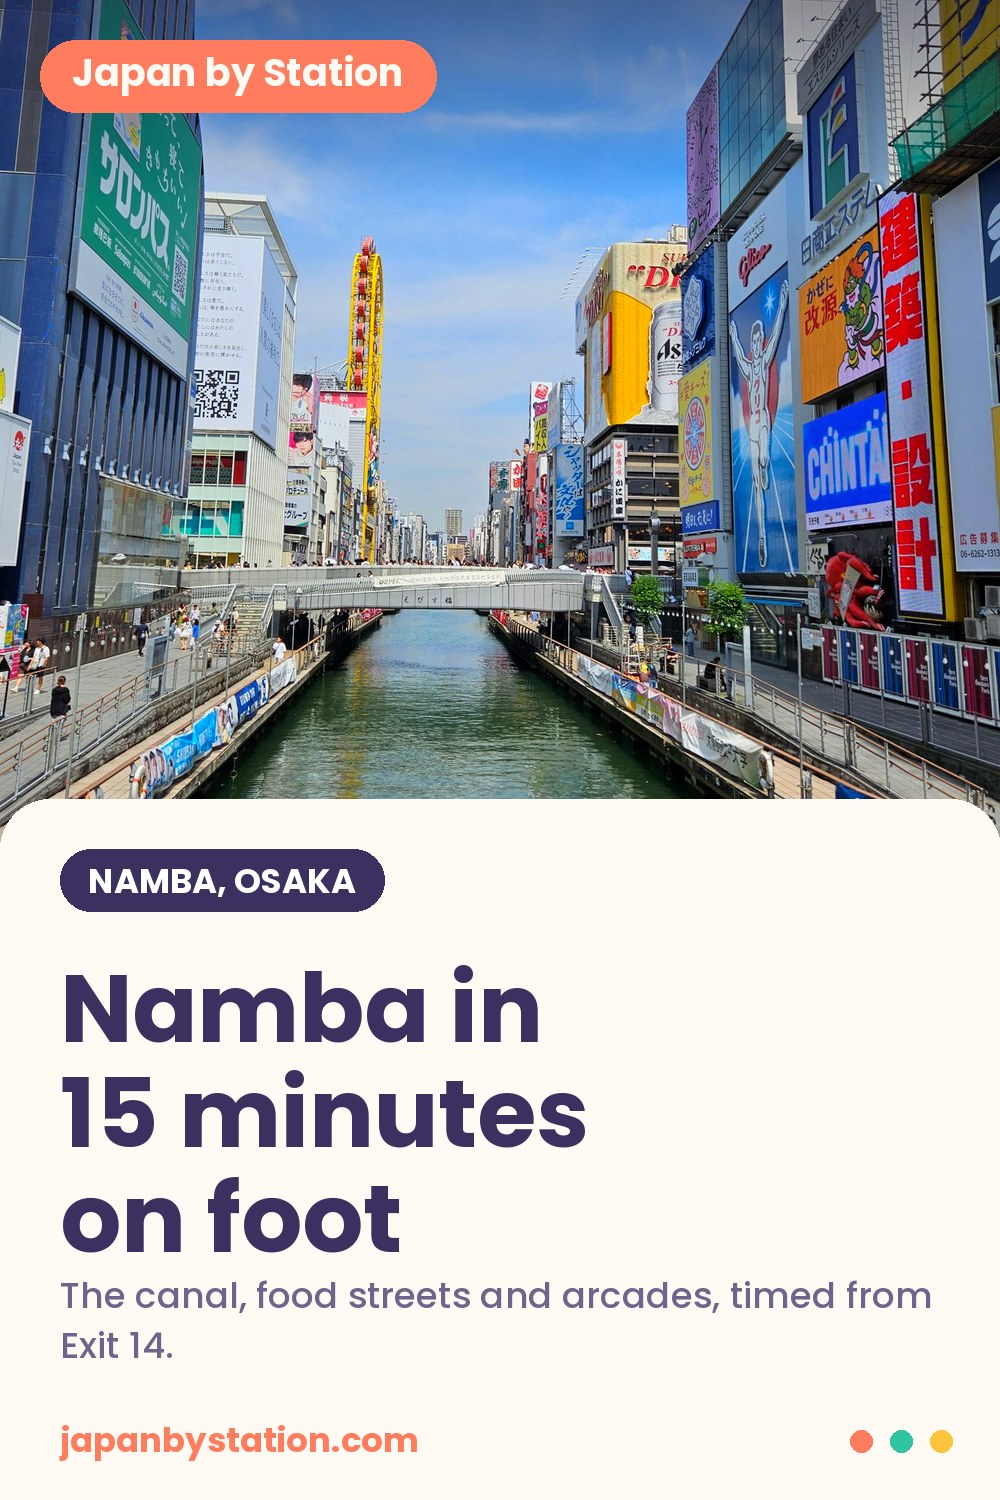
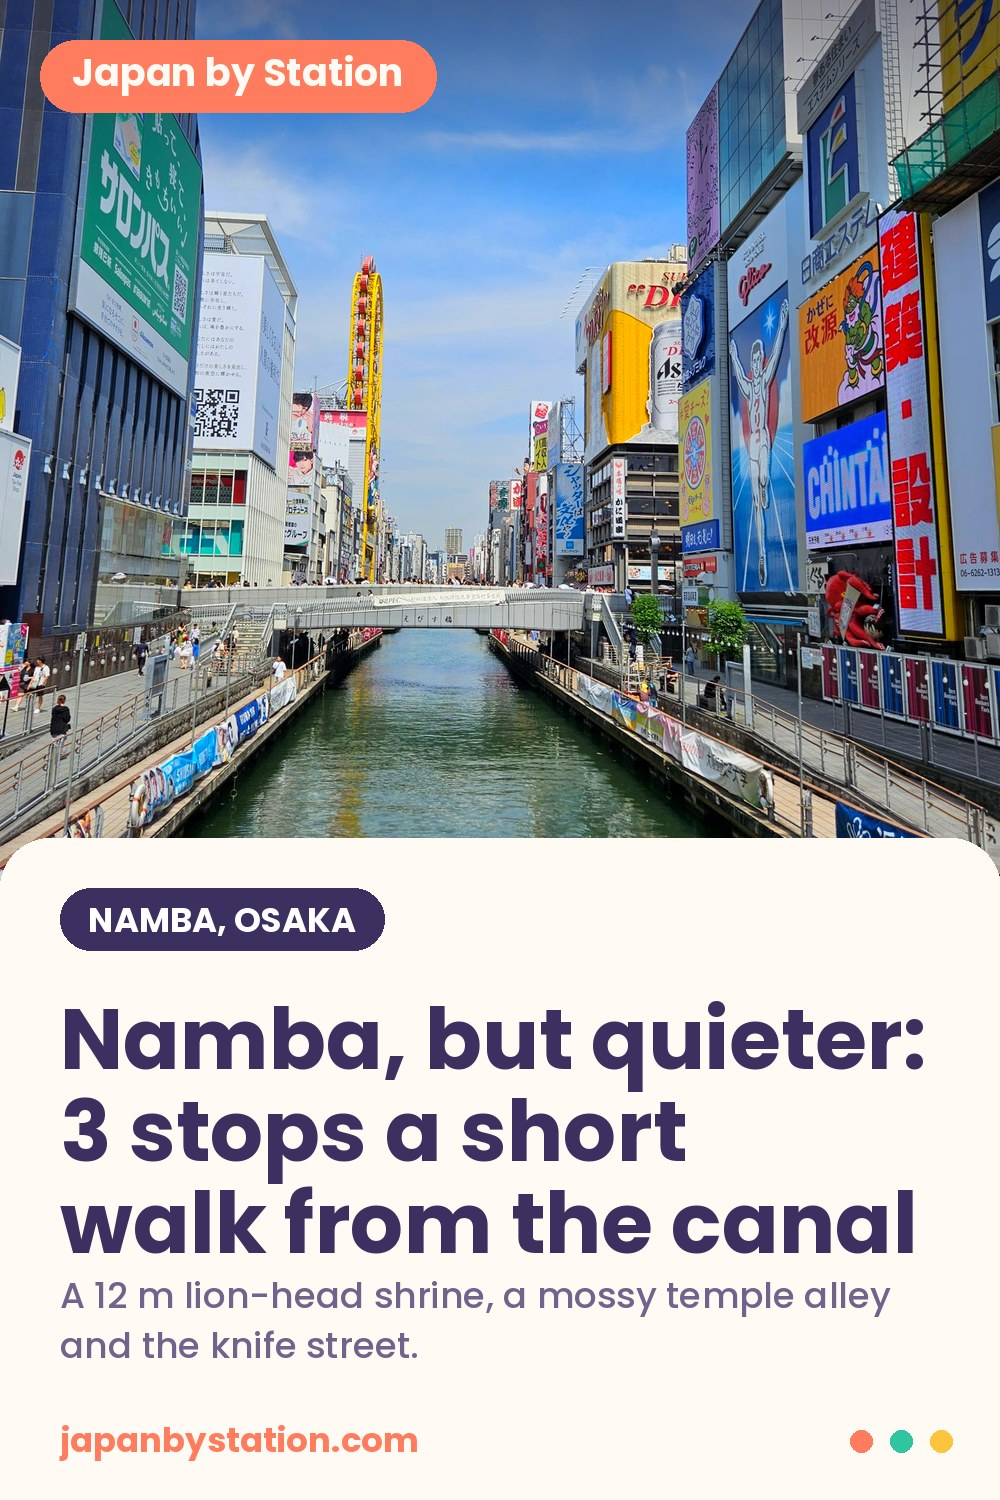
Pinterest: hook rule (3 things / case then what to do), Namba Pin reworked [CF-Pages-Skip] [CF-Pages-Skip]

diff --git a/PLAYBOOK.md b/PLAYBOOK.md
@@ -187,6 +187,7 @@ Account: pinterest.com/japanbystation (business, website claimed). Board ids in 
 - QUALITY over volume, but daily: 8–12 Pins a day, never more than 5 in one run; pin/poster.js waits a random 0–5 min, then 40–120 s between Pins (Ling 24 Nov: no fixed times). One designed Pin per guide first; a guide can get a 2nd Pin later only with a DIFFERENT photo and a different angle (e.g. the One-more-thing spot).
 - IMAGE v2 (Ling, 24 Nov: photo first, small title): use `pinimg2.py`, NOT pinimg.py. Default = COVER: `python3 pinimg2.py cover <photo> "<title l1|l2, max ~6 words>" "<PLACE, CITY>" site/pinimg/<id>.jpg [fx] [fy]` — the photo fills the Pin, a small 2-line title on a dark fade at the bottom. For guides that recommend 3–4 places, alternate with COLLAGE: `python3 pinimg2.py collage "<p1,p2,p3,p4>" "<label1|label2|label3|label4>" "<one-line title>" "<PLACE, CITY>" site/pinimg/<id>.jpg` (4 photos, numbered, 2–3 word labels). Photos must show what the title/label names (look at each first). Pexels bundle method (section 3) into `pin/src/`. Contact sheet before posting. Deploy (`jbs.py deploy-site`) BEFORE posting, then wait ~2 min.
 - LINKS (Ling, 24 Nov): live pages are at https://japanbystation.com/<slug>.html (NO /guides/ in the URL; site/guides is only the source folder). Old /guides/ links 301-redirect, but always use the real URL.
+- HOOK (Ling, 24 Nov): give every new Pin a strong, concrete hook built on a case, then what to do: "3 things to do in Yanaka Ginza", "3 things to eat in X", "3 stops locals prefer around X", "Where to stay in Osaka if you're out late: 2 areas". Image title and Pin title both use it: number + place + what you get. Then the description lists the items as 1) 2) 3), each with one concrete detail from the page. Only list things the guide page really contains (count them first); if the page has no 3 eats, pick a list it does have. Never claim "locals prefer" or "most people miss" unless the page says so.
 - COPY: title ≤100 chars = the search phrase + the question ("Where to stay in Osaka: Namba, Umeda or Tennoji?"). Description 2–3 sentences: the concrete answer and the thing people won't find in the usual top-10 lists, then 3–4 hashtags. Same voice rules as section 1; never "full guide", no fake urgency, no affiliate wording. alt_text = what the photo shows + ". Text: " + the image text.
 - POSTING (public Pins): API access is still Trial (API Pins are private until Standard), so post through the logged-in web session: in the built-in browser open https://www.pinterest.com/japanbystation/, set `window.__pinq` to the next items, run `pin/poster.js`, wait, read `window.__pinres`. A 200 with an id = posted. Write `posted:true, pin_id` into `pin/queue.json` and save. Never post test or placeholder Pins.
 - Queue: `pin/queue.json`. Order: new guides first (any guide in site/guides without a Pin), then older guides, then 2nd Pins for the best guides.
